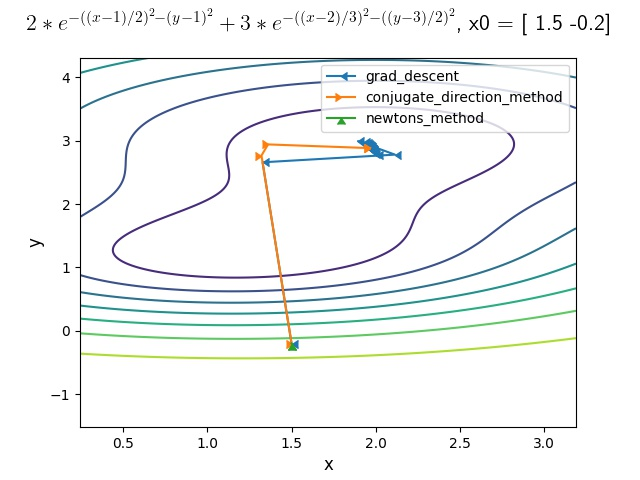
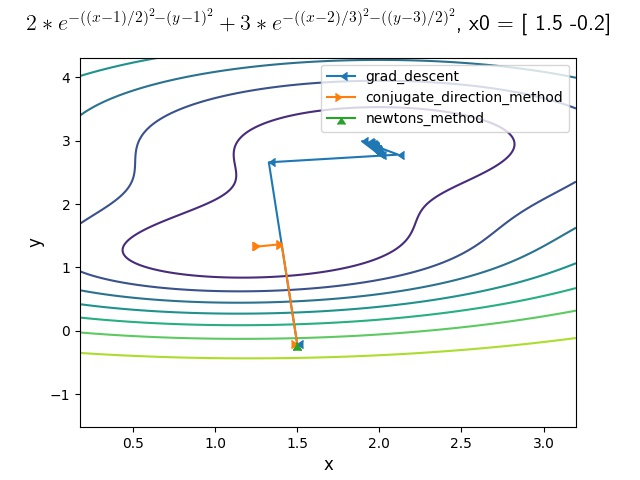
tune conjugate direction method for better performance
fix performance measuring script to demand lower accuracy, since it's
    just how things are with cdm

diff --git a/scripts/compare_gradient_with_others.py b/scripts/compare_gradient_with_others.py
@@ -7,7 +7,7 @@ from methopt.conjugate_direction_method import conjugate_direction_method
 from methopt.grad_descent import grad_descent
 from methopt.newtons_method import newtons_method
 
-ITERATION_CNT = 3
+ITERATION_CNT = 100
 
 methods = {
     "newtons_method": newtons_method,
@@ -16,63 +16,16 @@ methods = {
 }
 
 
-def time_cnt(**kwargs):
-    passed_kwargs = {name: kwargs[name] for name in ["f", "f_H", "f_grad", "x0"]}
-    if "method" in kwargs:
-        method = kwargs["method"]
-        return round(
-            timeit(
-                f"{method.__name__}(f=f, f_H=f_H, f_grad=f_grad, x0=x0)",
-                setup=f"from methopt.{method.__name__} import {method.__name__}",
-                number=ITERATION_CNT,
-                globals=passed_kwargs,
-            )
-            / ITERATION_CNT,
-            3,
+def time_cnt(method, **kwargs):
+    return round(
+        timeit(
+            f"method(f=f, f_H=f_H, f_grad=f_grad, x0=x0, eps=eps)",
+            number=ITERATION_CNT,
+            globals={"method": method, **kwargs},
         )
-    else:
-        print(
-            "newtons_method",
-            round(
-                timeit(
-                    "newtons_method(f=f, f_H=f_H, f_grad=f_grad, x0=x0)",
-                    setup="from methopt.newtons_method import newtons_method",
-                    number=ITERATION_CNT,
-                    globals=passed_kwargs,
-                )
-                / ITERATION_CNT,
-                3,
-            ),
-            "s",
-        )
-        print(
-            "conjugate directions",
-            round(
-                timeit(
-                    "conjugate_direction_method(f=f, f_H=f_H, f_grad=f_grad, x0=x0)",
-                    setup="from methopt.conjugate_direction_method import conjugate_direction_method",
-                    number=ITERATION_CNT,
-                    globals=passed_kwargs,
-                )
-                / ITERATION_CNT,
-                3,
-            ),
-            "s",
-        )
-        print(
-            "grad_descent",
-            round(
-                timeit(
-                    "grad_descent(f=f, f_H=f_H, f_grad=f_grad, x0=x0)",
-                    setup="from methopt.grad_descent import grad_descent",
-                    number=ITERATION_CNT,
-                    globals=passed_kwargs,
-                )
-                / ITERATION_CNT,
-                3,
-            ),
-            "s",
-        )
+        / ITERATION_CNT,
+        4,
+    )
 
 
 # @profile needed for manual launch and memory profiling
@@ -82,19 +35,14 @@ def mem_cnt(**kwargs):
     return memory_usage((method, (), passed_kwargs), interval=0.001, max_usage=True)
 
 
-def iter_cnt(**kwargs):
+def iter_cnt(method, **kwargs):
     counter = 0
 
     def inc(**kwargs):
         nonlocal counter
         counter += 1
 
-    iteration_callback = inc
-
-    method = kwargs["method"]
-    passed_kwargs = {name: kwargs[name] for name in ["f", "f_H", "f_grad", "x0"]}
-    passed_kwargs["iteration_callback"] = iteration_callback
-    res = method(**passed_kwargs)
+    res = method(**kwargs, iteration_callback=inc)
     # print(res) ## check for convergence
     return counter
 
@@ -148,18 +96,16 @@ if __name__ == "__main__":
             ) as table:
                 writer = csv.DictWriter(table, fieldnames=["method", "time", "iter"])
                 writer.writeheader()
-                for method_name in methods:
-                    cur_time = time_cnt(
-                        method=methods[method_name],
-                        formula=formula,
-                        f=f,
-                        f_grad=f_grad,
-                        f_H=f_H,
-                        x0=x0,
-                    )
-                    cur_cnt = iter_cnt(
-                        method=methods[method_name], f=f, f_grad=f_grad, f_H=f_H, x0=x0
-                    )
+                kwargs = {
+                    "f": f,
+                    "f_grad": f_grad,
+                    "f_H": f_H,
+                    "x0": x0,
+                    "eps": 1e-3,
+                }
+                for method_name, method in methods.items():
+                    cur_time = time_cnt(method, **kwargs)
+                    cur_cnt = iter_cnt(method, **kwargs)
                     writer.writerow(
                         {"method": method_name, "time": cur_time, "iter": cur_cnt}
                     )

diff --git a/src/methopt/conjugate_direction_method.py b/src/methopt/conjugate_direction_method.py
@@ -1,6 +1,7 @@
 import numpy as np
 
 from methopt.grad_descent import grad_descent
+from methopt.step_adjustment_strategy import DivideStepStrategy
 
 
 def conjugate_direction_method_for_quadratic(
@@ -57,7 +58,7 @@ def conjugate_direction_method(
     x0,
     max_iterations_count=1000,
     iteration_callback=None,
-    eps=1e-7,  # Search accuracy
+    eps=1e-3,  # Search accuracy
     **kwargs,
 ):
     if iteration_callback is None:
@@ -76,7 +77,14 @@ def conjugate_direction_method(
     for k in range(1, max_iterations_count):
         psi = lambda chi: f(x_prev + chi * p_prev)
         grad_psi = lambda chi: np.dot(f_grad(x_prev + chi * p_prev), p_prev)
-        hk = grad_descent(psi, grad_psi, 0, eps=1e-11)
+        hk = grad_descent(
+            psi,
+            grad_psi,
+            0,
+            initial_step=1e-3,
+            eps=1e-7,
+            step_adjustment_strategy=DivideStepStrategy(psi, grad_psi, eps=1e-11),
+        )
         xk = x_prev + hk * p_prev
         iteration_callback(x=xk, iteration_no=k)
         wk = -f_grad(xk)
